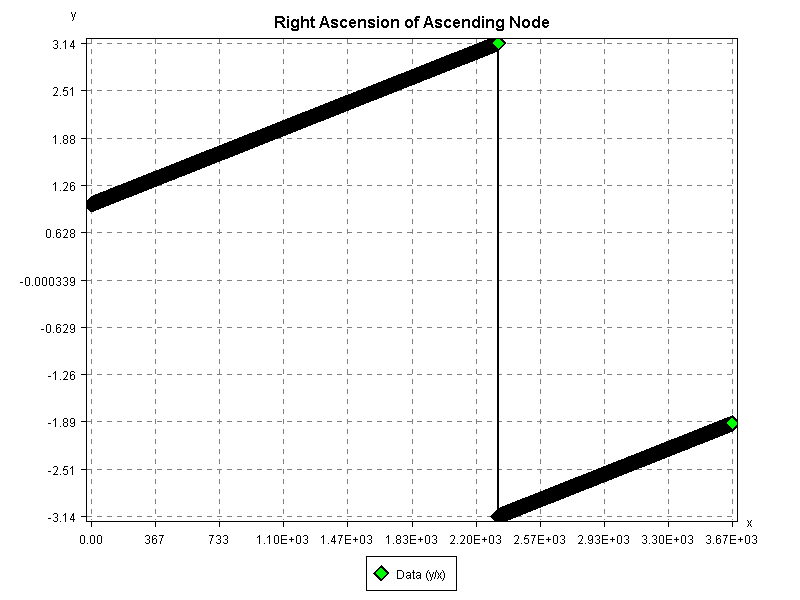
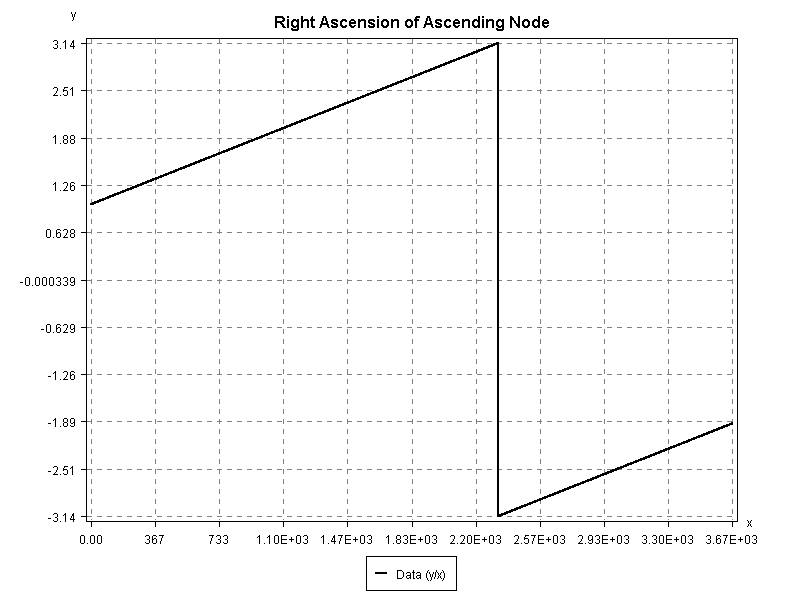
Changed Plot

Changed region(s): [[0.0938, 0.06, 0.625, 0.36], [0.5938, 0.69, 0.9375, 0.87], [0.4688, 0.93, 0.5, 0.96]]

diff --git a/src/main/java/quickTest/QuickTestClass.java b/src/main/java/quickTest/QuickTestClass.java
@@ -146,8 +146,6 @@ public class QuickTestClass{
         	yAxis("y", Plot.axisOpts()).
         	series("Data", data,
         		Plot.seriesOpts().
-        			marker(Plot.Marker.DIAMOND).
-        			markerColor(Color.GREEN).
         			color(Color.BLACK));
         try {
         	plot.save("plots/PlotTest", "png");
